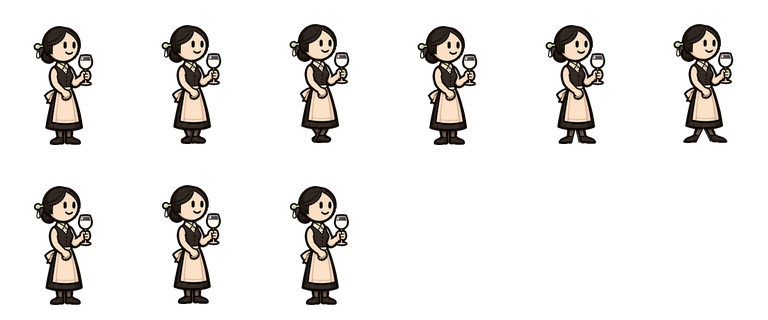
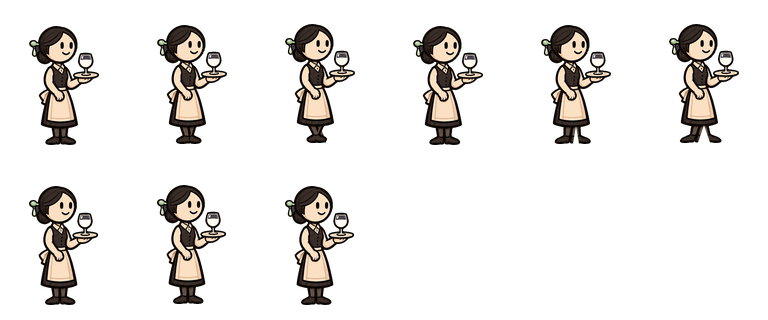
Randomize server routes and refine milk-service art

diff --git a/README.md b/README.md
@@ -15,7 +15,7 @@ From the repository root, run `python3 -m http.server 8000` and open `http://loc
 - `src/main.mjs` creates the game state, connects the controls and dialogue panel, and runs the frame loop.
 - `src/input.mjs`, `src/player.mjs`, and `src/directions.mjs` handle keyboard and touch input, movement, and facing.
 - `src/room.mjs` holds the map dimensions, camera bounds, interactions, and collision geometry. `src/baron.mjs` controls the Baron's rug walks, dialogue, and expressions.
-- `src/milo.mjs` controls Milo’s hiding spots and movement. `src/waiters.mjs` controls the six servers in the east and west wings.
+- `src/milo.mjs` controls Milo’s hiding spots and movement. `src/waiters.mjs` controls the six servers who roam the hall.
 - `src/hall-art.mjs` assembles the approved sprites in `assets/hall/`. Add `?floor=planks` to the URL to preview the wide-plank floor.
 - `src/render.mjs` draws the room and animates its characters using the images in `assets/`, including the repeating parquet texture.
 
